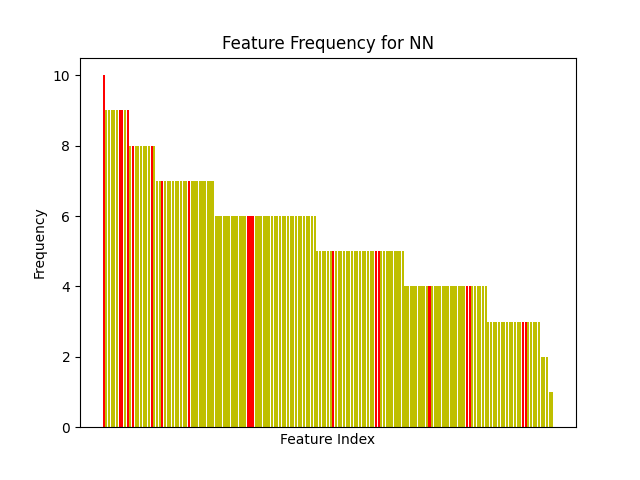
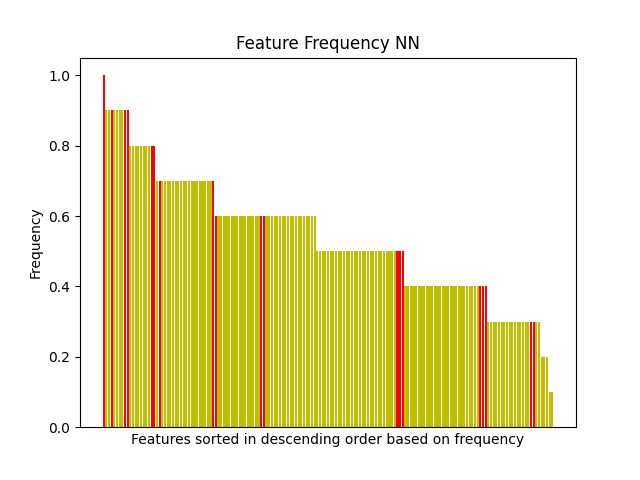
Figures and method updated

diff --git a/report/report.tex b/report/report.tex
@@ -226,8 +226,10 @@ The automatic classification of skin lesions as being either malignant or benign
 
 \parencite{MustafaSuleiman2017Fsus} studied the minimal number of necessary features for effective and accurate skin lesion classification using a KNN-model.  The features that were studies were based on the geometric (A), color (C)  and boundary (B) aspects of the ABCD rule of melanoma.(\parencite{MustafaSuleiman2017Fsus}) A feature selection method which implemented the Sequential Backward Selection (SBS) was used. When all features (15 in total) were used, the average accuracy was around 78\%. The highest accuracy of 91\% was obtained when there were only 6, 8 and 9 features. Hence, \parencite{MustafaSuleiman2017Fsus} showed that an effective feature selection method both improves the accuracy of the classifier and the computation and storage cost. Though they did not highlight which of these features were abundant and which were important to include. Additionally, they only limited the study to one type of ML model, namely the KNN. 
 
-\parencite{MustafaSuleiman2017Fsus} studied the effect of feature selection using the NCA method with an M-SVM on three different data sets. Like \parencite{MustafaSuleiman2017Fsus} their method showed an increase in accuracy and runtime. However, as well as \parencite{MustafaSuleiman2017Fsus}, they did not investigate which features were the ones leading to the increased accuracy. Furthermore, only one classifier was used with the M-SVM and therefore no results were generated using some other type of classifier. 
+\parencite{MustafaSuleiman2017Fsus} studied the effect of feature selection using the NCA method with an M-SVM on three different data sets. Like \parencite{MustafaSuleiman2017Fsus} their method showed an increase in accuracy and runtime. However, as well as \parencite{MustafaSuleiman2017Fsus}, they did not investigate which features were the ones leading to the increased accuracy. Furthermore, only one classifier was used with the M-SVM and therefore no results were generated using some other type of classifier.
 
+
+% RohrerR.1998Fsim är en bra referens
 
 \chapter{Methods}
 
@@ -249,7 +251,7 @@ The aim of this study was not to develop a new segmentation method, but rather t
 \subsection{Feature extraction}
 
 As mentioned in the background, the two feature extraction methods used were ABCD and SIFT. In total 169 features were used where the SIFT and morphological features consisted of 150 and 19 features respectively.
-\begin{table}[]
+\begin{table}[h!]
   \begin{tabular}{|l|l|l|}
   \hline
   Feature type  & Indexes in feature set & Number of features \\ \hline
@@ -270,11 +272,12 @@ As mentioned in the background, the two feature extraction methods used were ABC
   
   Index 157 through 159 were based on the research of \parencite{inproceedings}. The first two (index 157 and 158) describe the asymmetry of the lesion where a high value indicates high asymmetry. In table \ref{feature_description}, \(A_x, A_y \textrm{ and } A\) denotes the asymmetry along the x- and y-axis and the area of the lesion respectively. The third, index 159, describes the border irregularity where \(P\) denotes the perimeter of the lesion, and \(d \textrm{ and } D\) denotes the minor and major diameter of the lesion.
 
-  The remaining features are based on the research of \parencite{celebi2008automatic} and describe the colour attributes of the lesion. These are based on the RGB-values of the pixels in the lesion and draws either comparisons to the lesion itself or to the surronding skin. 
-  The indices 160-162 describe the relative R, G and B ratio. In table \ref{feature_description}, \(R_L, G_L \textrm{ and } B_L\) describe the average value of red, green and blue in the surronding skin's pixels and \(R_L, G_L \textrm{ and } B_L\) denotes the average red, green and blue values of the lesion's pixels. Hence these features measure the contrast between the lesion and the surronding skin terms of the three colors. The indices 163-165 measure the relative R, G and B difference between the lesion and the surronding skin, the same notations are used. Lastly, features 165-168 measure the  normalized relative R,G and B differences between the surronding skin and the lesion. \parencite{celebi2008automatic}
+  The remaining features are based on the research of \parencite{celebi2008automatic} and describe the colour attributes of the lesion. These are based on the RGB-values of the pixels in the lesion and draws either comparisons to the lesion itself or to the surrounding skin. 
+  The indices 160-162 describe the relative $R$, $G$ and $B$ ratio. In table \ref{feature_description}, \(R_L, G_L \textrm{ and } B_L\) describe the average value of red, green and blue in the surrounding skin's pixels and \(R_L, G_L \textrm{ and } B_L\) denotes the average red, green and blue values of the lesion's pixels. Hence, these features measure the contrast between the lesion and the surrounding skin terms of the three colors. The indices 163-165 measure the relative $R$, $G$ and $B$ difference between the lesion and the surrounding skin, the same notations are used. Lastly, features 165-168 measure the normalized relative $R$, $G$ and $B$ differences between the surrounding skin and the lesion. \parencite{celebi2008automatic}
 
 
-\begin{table}[]
+\begin{table}[h!]
+  \caption{Description of the morphological features}
   \begin{tabular}{|l|l|}
   \hline
   Index in feature set & Description \\ \hline
@@ -299,15 +302,13 @@ As mentioned in the background, the two feature extraction methods used were ABC
   168                  &       \(F_{15} =F_{12} / (F_{10} + F_{11} + F_{12})\)      \\ \hline
   \end{tabular}
   \label{feature_description}
-  \end{table}
+\end{table}
 
-
+\newpage
 
 The implementation is originally done by \parencite{melanoma-classifier}, the documentation is available in the GitHub repository.
 
 % TODO: Dubbelkolla namn på library. Det är fel
-
-% TODO: Lägg in hur man beräknar grejerna, eller ska det ens in? Hänvisa till studie t.o.m peer review
 
 % Hur de beräknas
 % github repot
@@ -325,10 +326,18 @@ The implementation is based on a GitHub repository which uses the ''Bag of Words
 
 All classifiers used in this study are from the Scikit-sklearn library which is a free-to-use library for machine learning in Python \parencite{scikit-learn-doc}.
 
-% ! Nedanstående stämmer typ inte längre. Ska vi skriva något om parameter sweep? Vi gjorde ju lite...
-Although all ML models’ parameters can be fine-tuned to optimize performance and run-time, the default parameters will be used since it is not the aim of the study to create an optimal implementation. The focus is instead on the feature selection’s effect on the performance of the classifiers.
+With the aim to improve the accuracy of the models, hyperparameters were tuned in order to better fit the data. It is however important to note that a complete parameter sweep was not performed.
 
-% (källa ?)
+The \verb|n_neighbors| hyperparameter were modified for the KNN classifier and was set to $8$.
+
+For the NN classifier two hyperparameters were modified from the default value. \verb|hidden_layer_sizes| was set to $[8]$, which means that the classifier used one hidden layer with eight nodes. \verb|max_iter| was set to $100$ in order to speed up the testing time.
+
+Regarding the RF classifier, the only modified hyperparameter was \\ \verb|n_estimators| which was set to $5$. The standard value is $100$ but because of the testing time scaling rapidly it was lowered.
+
+For the SVM only one hyperparameter were modified, namely \verb|C|, which was set to $100$ instead of the usual $1$.
+% Kan skriva om att det kan ge overfitting om jag minns rätt men då behövs källa
+
+
 
 \section{Dataset}
 
@@ -711,6 +720,7 @@ As mentioned in the result section, the morphological features were overrepresen
 who compared deep features generated by a convoluted neural network against SIFT descriptors. They obtained the highest accuracy using only deep features. While mixing deep and SIFT features, the accuracy was decreased. Finally, only using SIFT features resulted in the worst observed performance. 
 
 % Feature 151
+% TODO: Fixa
 As mentioned in the results, the most prominent feature was feature 151, which is a morphological feature. The feature measures the extent of the lesion, i.e. how many of the pixels in the image are within the lesion. This might be due to the way the tests were conducted. In the forward selection, if a feature is selected early, then it is likely to be contained in the optimal set. Thus the fact that the feature was so common might be an indicator that it was chosen early in the process. Which in turn indicates that the feature is a strong indicator on its own. However, the feature was common in both SBS and SFS, thus it might simply be an effective indicator of malignant melanoma.
 
 % Feature 160

diff --git a/new_plots/tables.py b/new_plots/tables.py
@@ -40,7 +40,7 @@ def get_abcd(fil, filename):
 
 def get_frequencies (fil, filename, frequencies):
     temp_freqs = fil[filename]
-    print(temp_freqs)
+    # print(temp_freqs)
     for index in temp_freqs:
         # print("Index =", index, "Value =", temp_freqs.get(index))
         frequencies[int(index)] += temp_freqs.get(index)
@@ -58,9 +58,9 @@ temp_abcd, temp_sift = get_abcd(knn_sbs, "knn_freqs")
 knn_abcd += temp_abcd
 knn_sift += temp_sift
 
-print("############################")
-print("ABCD Knn =", knn_abcd,"And ",float(knn_abcd)/float(19), "SVM Sift =", knn_sift, "And", float(knn_sift)/float(169-19))
-print("############################")
+# print("############################")
+# print("ABCD Knn =", knn_abcd,"And ",float(knn_abcd)/float(19), "SVM Sift =", knn_sift, "And", float(knn_sift)/float(169-19))
+# print("############################")
 
 
 
@@ -69,9 +69,9 @@ temp_abcd, temp_sift = get_abcd(nn_sbs, "nn_freqs")
 nn_abcd += temp_abcd
 nn_sift += temp_sift
 
-print("############################")
-print("ABCD nn =", nn_abcd,"And ",float(nn_abcd)/float(19), "SVM Sift =", nn_sift, "And", float(nn_sift)/float(169-19))
-print("############################")
+# print("############################")
+# print("ABCD nn =", nn_abcd,"And ",float(nn_abcd)/float(19), "SVM Sift =", nn_sift, "And", float(nn_sift)/float(169-19))
+# print("############################")
 
 
 rf_abcd, rf_sift = get_abcd(rf_sfs, "rf_freqs")
@@ -79,9 +79,9 @@ temp_abcd, temp_sift = get_abcd(rf_sbs, "rf_freqs")
 rf_abcd += temp_abcd
 rf_sift += temp_sift
 
-print("############################")
-print("ABCD rf =", rf_abcd,"And ",float(rf_abcd)/float(19), "SVM Sift =", rf_sift, "And", float(rf_sift)/float(169-19))
-print("############################")
+# print("############################")
+# print("ABCD rf =", rf_abcd,"And ",float(rf_abcd)/float(19), "SVM Sift =", rf_sift, "And", float(rf_sift)/float(169-19))
+# print("############################")
 
 
 
@@ -92,11 +92,11 @@ temp_abcd, temp_sift = get_abcd(svm_sbs, "svm_freqs")
 svm_abcd += temp_abcd
 svm_sift += temp_sift
 
-print("############################")
-print("ABCD SVM =", svm_abcd,"And ",float(svm_abcd)/float(19), "SVM Sift =", svm_sift, "And", float(svm_sift)/float(169-19))
-print("############################")
+# print("############################")
+# print("ABCD SVM =", svm_abcd,"And ",float(svm_abcd)/float(19), "SVM Sift =", svm_sift, "And", float(svm_sift)/float(169-19))
+# print("############################")
 
-print("All =", svm_abcd + svm_sift + knn_abcd + knn_sift + nn_abcd + nn_sift + rf_abcd + rf_sift)
+# print("All =", svm_abcd + svm_sift + knn_abcd + knn_sift + nn_abcd + nn_sift + rf_abcd + rf_sift)
 
 
 
@@ -122,7 +122,7 @@ frequencies = get_frequencies(rf_sbs, "rf_freqs", frequencies)
 frequencies = get_frequencies(svm_sfs, "svm_freqs", frequencies)
 frequencies = get_frequencies(svm_sbs, "svm_freqs", frequencies)
 
-print("Frequencies =", frequencies)
+# print("Frequencies =", frequencies)
 
 sorted_frequencies = dict(sorted(frequencies.items(), key=lambda x:x[1], reverse=True))
 abcd  = 0
@@ -133,11 +133,11 @@ for feature in frequencies:
     else:
         sift += frequencies.get(feature)
 
-print("#################### Table 4.1 ##############################")
-print("ABCD =", abcd, "Sift =", sift)
+# print("#################### Table 4.1 ##############################")
+# print("ABCD =", abcd, "Sift =", sift)
 rep_abcd = float(abcd)/float(169 - 148)
 rep_sift = float(sift)/float(148)
-print("ABCD rep =", rep_abcd, "SIFT rep =", rep_sift)
+# print("ABCD rep =", rep_abcd, "SIFT rep =", rep_sift)
 
 # Plot sorted frequencies with a bar chart
 # plt.bar(range(len(sorted_frequencies)), list(sorted_frequencies.values()), align='center')
@@ -152,7 +152,7 @@ for key in sorted_frequencies:
     i += 1
 # sort the values in the bar chart, but keep the color
 plt.xticks([])
-plt.xlabel('Feature Index')
+plt.xlabel('Features sorted in descending order based on frequency')
 plt.ylabel('Frequency')
 plt.title('Feature Frequency')
 # plt.savefig('feature_frequency.png')

diff --git a/new_plots/tables_42.py b/new_plots/tables_42.py
@@ -134,7 +134,7 @@ for key in knn_total_frequencies:
     i += 1
 # sort the values in the bar chart, but keep the color
 plt.xticks([])
-plt.xlabel('Feature Index')
+plt.xlabel('Features sorted in descending order based on frequency')
 plt.ylabel('Frequency')
 plt.title('Feature Frequency KNN')
 # plt.savefig('feature_frequency.png')
@@ -150,7 +150,7 @@ for key in nn_total_frequencies:
     i += 1
 # sort the values in the bar chart, but keep the color
 plt.xticks([])
-plt.xlabel('Feature Index')
+plt.xlabel('Features sorted in descending order based on frequency')
 plt.ylabel('Frequency')
 plt.title('Feature Frequency NN')
 # plt.savefig('feature_frequency.png')
@@ -166,7 +166,7 @@ for key in rf_total_frequencies:
     i += 1
 # sort the values in the bar chart, but keep the color
 plt.xticks([])
-plt.xlabel('Feature Index')
+plt.xlabel('Features sorted in descending order based on frequency')
 plt.ylabel('Frequency')
 plt.title('Feature Frequency RF')
 # plt.savefig('feature_frequency.png')
@@ -181,7 +181,7 @@ for key in svm_total_frequencies:
     i += 1
 # sort the values in the bar chart, but keep the color
 plt.xticks([])
-plt.xlabel('Feature Index')
+plt.xlabel('Features sorted in descending order based on frequency')
 plt.ylabel('Frequency')
 plt.title('Feature Frequency SVM')
 # plt.savefig('feature_frequency.png')
